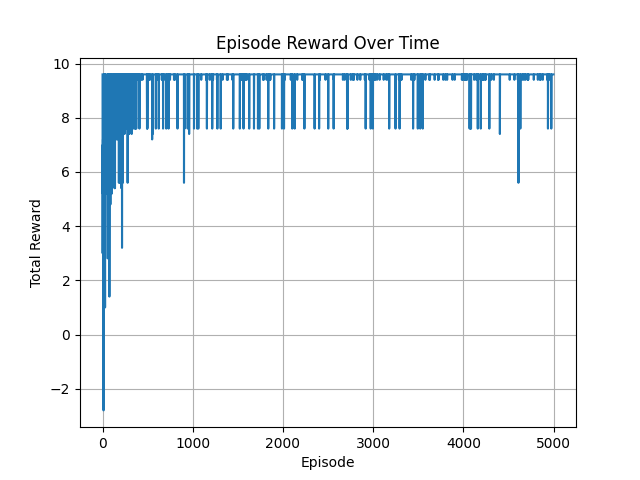
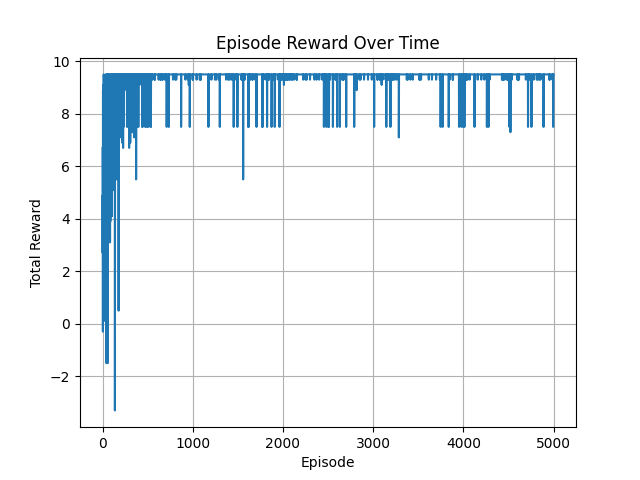
[NHJ] 아루코 마커 코드만 추가 + 강화학습 맵 변경

diff --git a/camera.py b/camera.py
@@ -1,90 +1,93 @@
-from flask import Flask, Response, render_template_string
 from picamera2 import Picamera2
-import numpy as np
 import cv2
-import sys
+import numpy as np
+from flask import Flask, Response
+import time
 
-class MyPiCamera():
-    def __init__(self, width, height):
-        self.cap = Picamera2()
-        self.width = width
-        self.height = height
-        self.is_open = True
-
-        try:
-            self.config = self.cap.create_video_configuration(main={"format":"RGB888","size":(width,height)})
-            self.cap.align_configuration(self.config)
-            self.cap.configure(self.config)
-            self.cap.start()
-        except:
-            self.is_open = False
-
-    def read(self, dst=None):
-        if dst is None:
-            dst = np.empty((self.height, self.width, 3), dtype=np.uint8)
-        if self.is_open:
-            dst = self.cap.capture_array()
-        return self.is_open, dst
-
-    def isOpened(self):
-        return self.is_open
-
-    def release(self):
-        if self.is_open:
-            self.cap.close()
-        self.is_open = False
-
-# Flask 웹 서버 구성
 app = Flask(__name__)
-camera = MyPiCamera(640, 480)
-# QR 코드 감지를 위한 디텍터
-qr_detector = cv2.QRCodeDetector()
 
-# 영상 프레임 생성 (JPEG로 변환)
-def gen_frames():
-    while camera.isOpened():
-        success, frame = camera.read()
-        if not success:
-            break
-        
-         # QR 코드 감지 및 디코딩
-        data, bbox, _ = qr_detector.detectAndDecode(frame)
-        if data:
-            print("Detected QR code:", data)
-            sys.stdout.flush()
-            # 바운딩 박스 그리기 (선택 사항)
-            if bbox is not None:
-                bbox = bbox.astype(int)
-                for i in range(len(bbox[0])):
-                    pt1 = tuple(bbox[0][i])
-                    pt2 = tuple(bbox[0][(i + 1) % len(bbox[0])])
-                    cv2.line(frame, pt1, pt2, (0, 255, 0), 2)
+# 카메라 설정
+picam2 = Picamera2()
+picam2.preview_configuration.main.size = (640, 480)
+picam2.preview_configuration.main.format = "BGR888"
+picam2.configure("preview")
+picam2.start()
+time.sleep(1)  # 카메라 워밍업 시간
 
-        # JPEG로 인코딩
-        _, buffer = cv2.imencode('.jpg', frame)
-        frame_bytes = buffer.tobytes()
+# ArUco 설정
+aruco_dict = cv2.aruco.getPredefinedDictionary(cv2.aruco.DICT_6X6_250)
+parameters = cv2.aruco.DetectorParameters()
+
+# 카메라 내부 파라미터 (예시 값, 정확한 값으로 교체 권장)
+camera_matrix = np.array([[600, 0, 320],
+                          [0, 600, 240],
+                          [0, 0, 1]], dtype=np.float32)
+dist_coeffs = np.zeros((5, 1))
+
+def generate_frames():
+    while True:
+        frame = picam2.capture_array()
+        gray = cv2.cvtColor(frame, cv2.COLOR_RGB2GRAY)
+
+        corners, ids, _ = cv2.aruco.detectMarkers(gray, aruco_dict, parameters=parameters)
+
+        if ids is not None:
+            cv2.aruco.drawDetectedMarkers(frame, corners, ids)
+
+            # 각 마커에 대해 pose estimation 수행
+            rvecs, tvecs, _ = cv2.aruco.estimatePoseSingleMarkers(corners, 0.05, camera_matrix, dist_coeffs)
+
+            for i in range(len(ids)):
+                # 각 마커에 좌표축 그리기
+                cv2.drawFrameAxes(frame, camera_matrix, dist_coeffs, rvecs[i], tvecs[i], 0.03)
+
+                # 마커 중심에 ID 표시
+                c = corners[i][0]
+                center_x = int(np.mean(c[:, 0]))
+                center_y = int(np.mean(c[:, 1]))
+                cv2.putText(frame, f"ID:{ids[i][0]}", (center_x, center_y),
+                            cv2.FONT_HERSHEY_SIMPLEX, 0.5, (255, 0, 255), 2)
+                # 각 축 방향 거리 추출 (단위: meter → cm 변환)
+                x_cm = tvecs[i][0][0] * 100
+                y_cm = tvecs[i][0][1] * 100
+                z_cm = tvecs[i][0][2] * 100
+
+                # 전체 거리도 계산 (유클리드 거리)
+                distance_cm = np.linalg.norm(tvecs[i]) * 100
+
+                # 콘솔 출력
+                print(f"ID: {ids[i][0]}, X: {x_cm:.2f}cm, Y: {y_cm:.2f}cm, Z: {z_cm:.2f}cm, 거리: {distance_cm:.2f}cm")
+
+                # 프레임에 거리ㅔㅔ 정보 표시
+                cv2.putText(frame, f"X:{x_cm:.1f} Y:{y_cm:.1f} Z:{z_cm:.1f} cm", (center_x, center_y + 20),
+                            cv2.FONT_HERSHEY_SIMPLEX, 0.4, (0, 255, 0), 1)
+                #cv2.putText(frame, f"Total: {distance_cm:.1f} cm", (center_x, center_y + 40),cv2.FONT_HERSHEY_SIMPLEX, 0.4, (0, 255, 0), 1)
+
+        frame_bgr = cv2.cvtColor(frame, cv2.COLOR_RGB2BGR)
+        ret, jpeg = cv2.imencode('.jpg', frame_bgr)
+        if not ret:
+            continue
+
         yield (b'--frame\r\n'
-               b'Content-Type: image/jpeg\r\n\r\n' + frame_bytes + b'\r\n')
+               b'Content-Type: image/jpeg\r\n\r\n' + jpeg.tobytes() + b'\r\n')
 
-
-# 메인 페이지 라우트
-@app.route('/')
-def index():
-    return render_template_string('''
-        <html>
-        <head><title>Pi Camera Stream</title></head>
-        <body>
-            <h1>📷 라즈베리파이 카메라 실시간 스트리밍</h1>
-            <img src="/video_feed" width="640" height="480">
-        </body>
-        </html>
-    ''')
-
-# 비디오 피드 라우트
 @app.route('/video_feed')
 def video_feed():
-    return Response(gen_frames(), mimetype='multipart/x-mixed-replace; boundary=frame')
+    return Response(generate_frames(),
+                    mimetype='multipart/x-mixed-replace; boundary=frame')
 
-# 서버 실행
+@app.route('/')
+def index():
+    return """
+    <html>
+      <head><title>ArUco Pose Stream</title></head>
+      <body>
+        <h1>Pi Camera ArUco 스트리밍 + Pose</h1>
+        <img src="/video_feed" width="640" height="480" />
+      </body>
+    </html>
+    """
+
 if __name__ == '__main__':
+    print("✅ http://<라즈베리파이_IP>:5000 에 접속하세요")
     app.run(host='0.0.0.0', port=5000)

diff --git a/path_planner.py b/path_planner.py
@@ -1,18 +1,18 @@
 import numpy as np
 import random
 import matplotlib
-matplotlib.use('Agg')
 import matplotlib.pyplot as plt
+matplotlib.use('Agg')
 import os
 
 # ------------------------ Map & Q-learning ------------------------
 
 raw_map = [
-    "G00100",
-    "100S01",
-    "00010K",
-    "B00001",
-    "0001W0"
+    "0G00100",
+    "1100S01",
+    "000010K",
+    "B000001",
+    "10001W0"
 ]
 
 ROWS, COLS = len(raw_map), len(raw_map[0])
@@ -29,7 +29,11 @@ def find_position(symbol):
     return None
 
 def state_to_index(state):
-    return state[0] * COLS + state[1]
+    x, y = state
+    if 0 <= x < ROWS and 0 <= y < COLS:
+        return x * COLS + y
+    else:
+        raise IndexError(f"Invalid state index: ({x}, {y})")
 
 def q_learning(start, goal, Q_init=None, episodes=5000, alpha=0.3, gamma=0.9):
     n_states = ROWS * COLS
